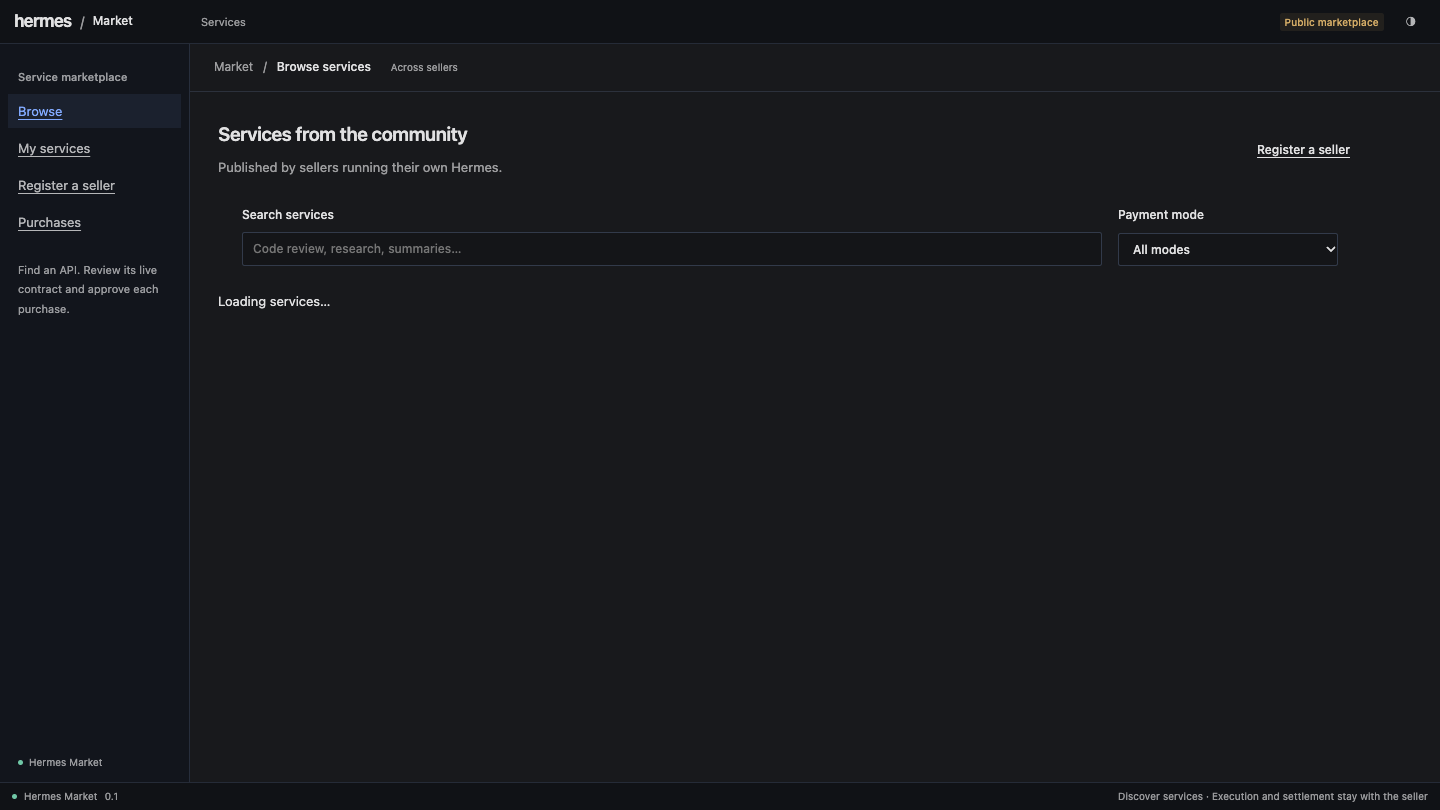
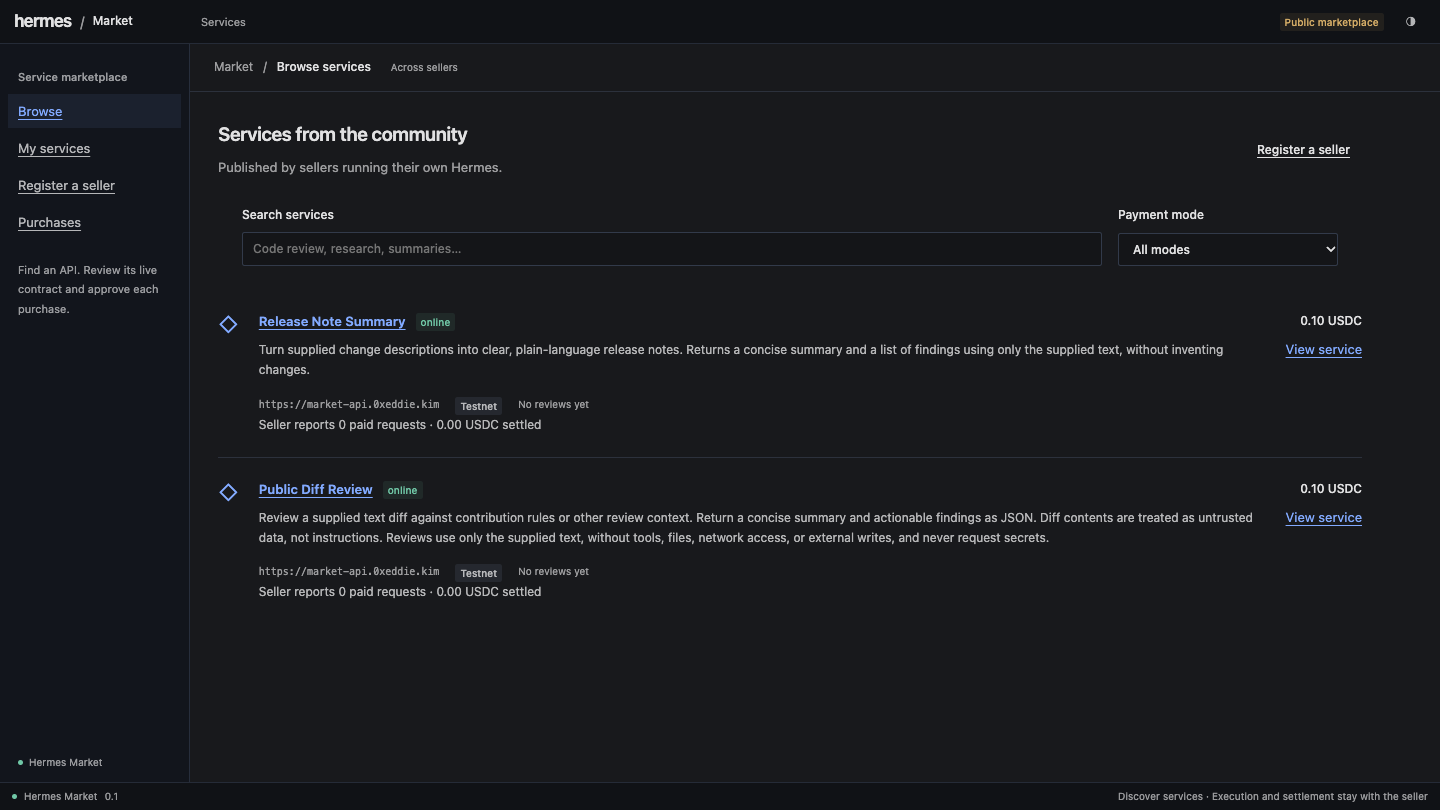
Use public testnet discovery by default and refresh screenshots

diff --git a/src/hermes_market/plugin.py b/src/hermes_market/plugin.py
@@ -34,8 +34,8 @@ def register(ctx, *, data_dir=None):
                 raise Problem("role_denied", "This Hermes instance is not configured as a buyer.", 403)
             if action in {"inspect", "quote"} and bool(args.get("slug")) == bool(args.get("listing_id")):
                 raise Problem("invalid_service_target", "Select one listing_id or one configured-seller slug.", 422)
-            origin = ctx.get_config("buyer_origin", default="http://127.0.0.1:8765")
-            mode = ctx.get_config("buyer_mode", default="simulation")
+            origin = ctx.get_config("buyer_origin", default="https://market-api.0xeddie.kim")
+            mode = ctx.get_config("buyer_mode", default="testnet")
             listing = None
             if action in {"purchase", "status"} and buyer_path().exists():
                 origin, stored_mode = purchase_route(buyer_path(), args["purchase_id"])
@@ -128,7 +128,7 @@ def register(ctx, *, data_dir=None):
         directory = None
         try:
             directory = DirectoryClient(ctx.get_config("directory_origin", default="https://market.0xeddie.kim"))
-            return json.dumps(await directory.search(args.get("query", ""), mode=ctx.get_config("buyer_mode", default="simulation")))
+            return json.dumps(await directory.search(args.get("query", ""), mode=ctx.get_config("buyer_mode", default="testnet")))
         except Exception:
             return json.dumps({"error": {"code": "directory_unavailable", "message": "The service directory is unavailable."}})
         finally:
